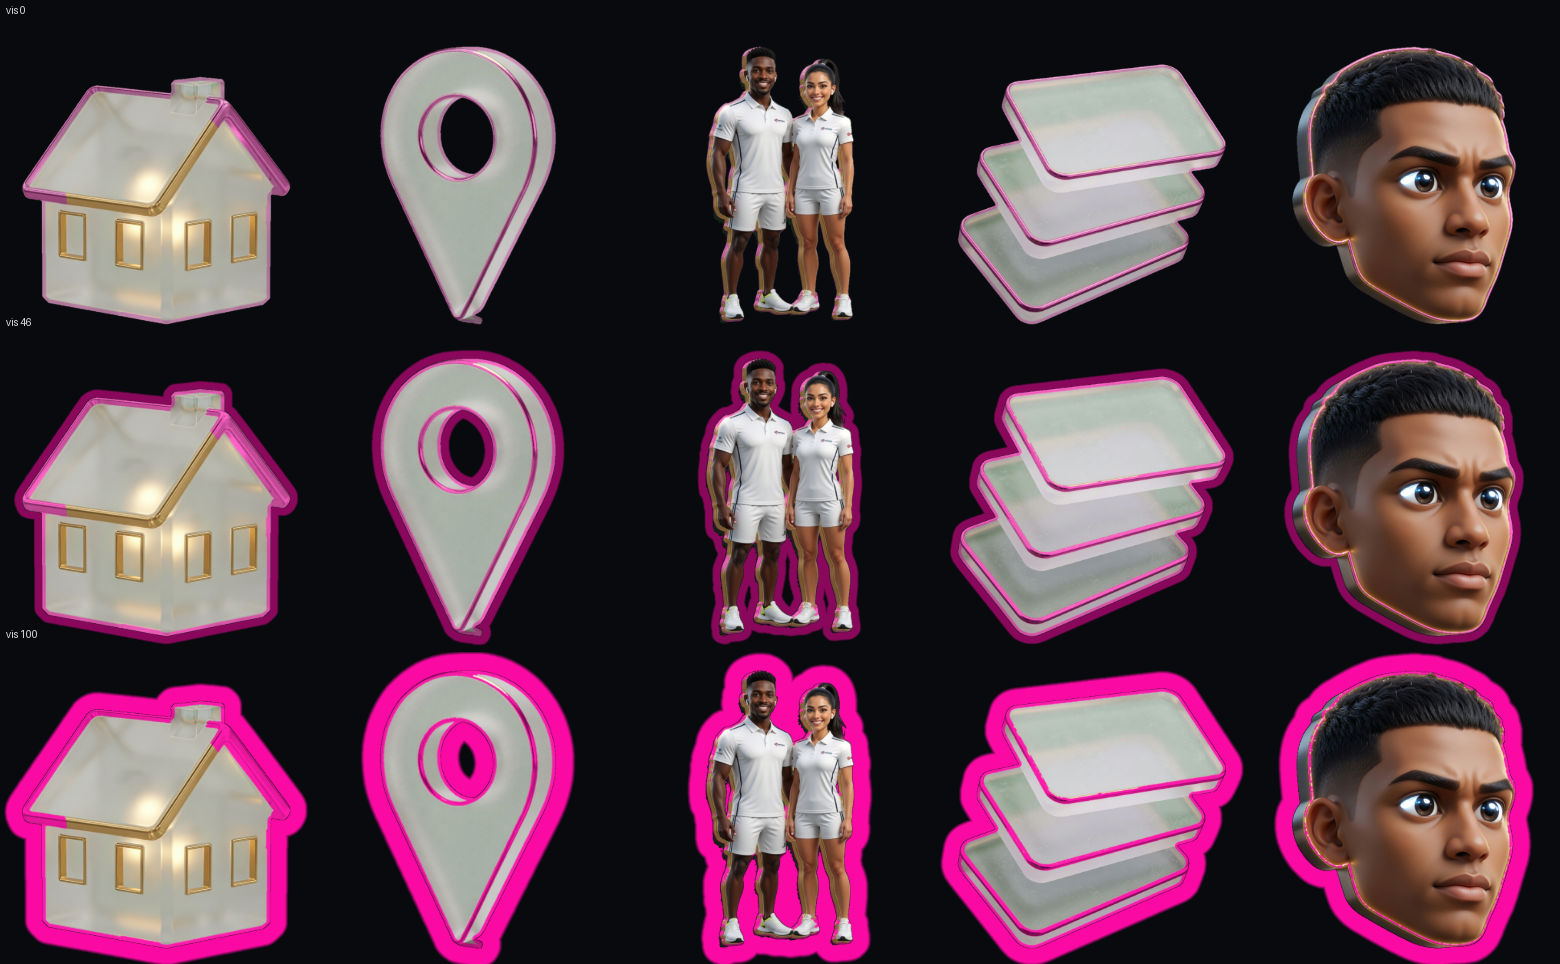
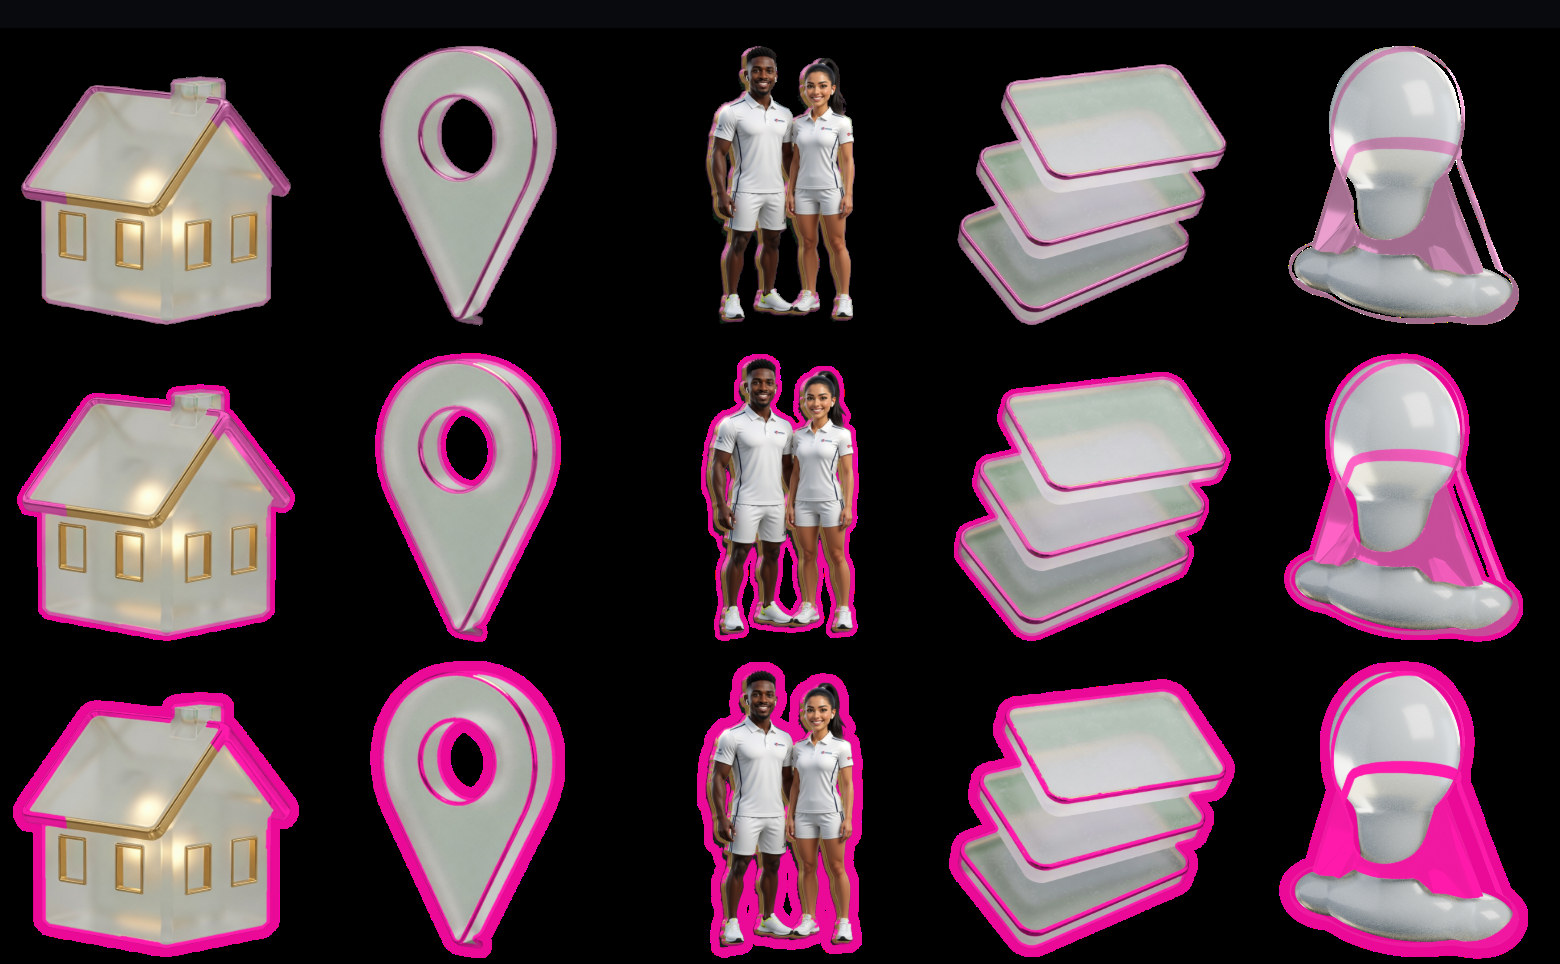
glyph: crisp outline, and a faceless profile bust
The outer stroke is a bright opaque line whose width is the only thing
visibility changes. The five profile icons are a modeled trophy bust
with no face, each pack's material, and a trim mask from the gold object.

diff --git a/prototype/glyph-preview/mocks.html b/prototype/glyph-preview/mocks.html
@@ -186,7 +186,7 @@
         const img = new Image();
         img.onload = () => { images.set(file, img); resolve(); };
         img.onerror = () => resolve();
-        img.src = file + "?v=15";
+        img.src = file + "?v=16";
       });
     }
     function boxBlur(src, w, h, radius) {
@@ -304,9 +304,9 @@
       const s = snap.data;
       const t = Math.max(0, Math.min(1, visibility / 100));
       const target = ((hueDeg % 360) + 360) % 360 / 360;
-      const reach = t * 5.5 * (w / 104);
-      const stroke = hsvToRgb(target, 0.96, 0.4 + 0.58 * t);
-      const feather = Math.max(1.1, reach * 0.22);
+      const reach = t * 3 * (w / 104);
+      const stroke = hsvToRgb(target, 0.96, 0.92);
+      const aa = 1;
       for (let n = 0; n < maskList.length; n++) {
         const i = maskList[n];
         const m = mask[i] / 255;
@@ -319,14 +319,14 @@
         d[p + 1] = s[q + 1] * (1 - m) + rgb[1] * m;
         d[p + 2] = s[q + 2] * (1 - m) + rgb[2] * m;
       }
-      if (reach > 0.3) {
-        const limit = reach + feather;
+      if (reach > 0.05) {
+        const limit = reach + aa;
         for (let n = 0; n < strokeList.length; n++) {
           const i = strokeList[n];
           const od = outside[i];
           if (od >= limit) continue;
-          const cover = od <= reach ? 1 : 1 - (od - reach) / feather;
-          const sa = cover * (0.62 + 0.38 * t);
+          const cover = od <= reach ? 1 : 1 - (od - reach) / aa;
+          const sa = cover;
           const p = i * 4;
           const da = d[p + 3] / 255;
           const outA = sa + da * (1 - sa);

diff --git a/docs/research/2026-09-24-contour/profile_bust.py b/docs/research/2026-09-24-contour/profile_bust.py
@@ -1,0 +1,270 @@
+"""Faceless profile bust for the five tab packs.
+
+Run:
+  blender --background --python docs/research/2026-09-24-contour/profile_bust.py
+
+One mesh (head, neck, shoulders). Gold trim is a separate object and is
+rendered again as the trim mask. Chalk has no gold; its mask is the
+same soft silhouette rim the other chalk icons use.
+"""
+import math
+import os
+import sys
+
+import bpy
+
+HERE = os.path.dirname(os.path.abspath(__file__))
+OUT = os.path.normpath(os.path.join(HERE, "..", "..", "..", "prototype", "glyph-preview"))
+PREVIEW = os.environ.get("PREVIEW", "") == "1"
+RES = 640 if PREVIEW else 1280
+
+PACKS = {
+    "f": dict(body=(0.012, 0.012, 0.013, 1), rough=0.55, metal=0.0, spec=0.35, gold=True, glow=0.0, trans=0.0),
+    "n": dict(body=(0.01, 0.01, 0.012, 1), rough=0.08, metal=0.15, spec=0.6, gold=True, glow=2.2, trans=0.0),
+    "k": dict(body=(0.93, 0.93, 0.92, 1), rough=0.28, metal=0.0, spec=0.45, gold=False, glow=0.0, trans=0.0),
+    "i": dict(body=(0.78, 0.88, 0.95, 1), rough=0.18, metal=0.0, spec=0.5, gold=True, glow=0.4, trans=0.82),
+    "r": dict(body=(0.96, 0.90, 0.78, 1), rough=0.22, metal=0.0, spec=0.5, gold=True, glow=0.15, trans=0.0),
+}
+
+
+def clear_scene():
+    bpy.ops.wm.read_factory_settings(use_empty=True)
+
+
+def look_at(obj, target):
+    direction = target - obj.location
+    obj.rotation_euler = direction.to_track_quat("-Z", "Y").to_euler()
+
+
+def build_bust():
+    mb = bpy.data.metaballs.new("BustBall")
+    # Convert uses the viewport resolution, so keep it fine enough for a smooth bust.
+    mb.resolution = 0.018
+    mb.render_resolution = 0.01
+    obj = bpy.data.objects.new("Bust", mb)
+    bpy.context.collection.objects.link(obj)
+
+    def ball(co, radius):
+        el = mb.elements.new()
+        el.type = "BALL"
+        el.co = co
+        el.radius = radius
+        return el
+
+    def egg(co, sx, sy, sz, radius):
+        el = mb.elements.new()
+        el.type = "ELLIPSOID"
+        el.co = co
+        el.radius = radius
+        el.size_x = sx
+        el.size_y = sy
+        el.size_z = sz
+        return el
+
+    # Slightly flattened sphere for the head. No face, hair, or features.
+    egg((0.0, -0.02, 1.62), 0.96, 0.82, 1.08, 0.92)
+    # Short neck, blended so it does not read as a separate ball.
+    ball((0.0, 0.02, 1.02), 0.42)
+    ball((0.0, 0.05, 0.78), 0.50)
+    # Rounded shoulders, wider than the head, like a trophy bust.
+    egg((0.0, 0.08, 0.38), 1.35, 0.72, 0.52, 0.95)
+    egg((-0.72, 0.04, 0.36), 0.62, 0.48, 0.42, 0.62)
+    egg((0.72, 0.04, 0.36), 0.62, 0.48, 0.42, 0.62)
+
+    bpy.context.view_layer.objects.active = obj
+    obj.select_set(True)
+    bpy.ops.object.convert(target="MESH")
+    mesh = bpy.context.active_object
+    mesh.name = "Bust"
+    bpy.ops.object.shade_smooth()
+    sub = mesh.modifiers.new("Sub", "SUBSURF")
+    sub.levels = 1
+    sub.render_levels = 2
+    return mesh
+
+
+def curve_band(name, location, scale, bevel, tilt=0.0):
+    bpy.ops.curve.primitive_bezier_circle_add(radius=1.0, location=location)
+    cu = bpy.context.active_object
+    cu.name = name
+    cu.scale = scale
+    cu.rotation_euler[0] = tilt
+    cu.data.bevel_depth = bevel
+    cu.data.bevel_resolution = 6
+    cu.data.resolution_u = 24
+    bpy.ops.object.convert(target="MESH")
+    band = bpy.context.active_object
+    bpy.ops.object.shade_smooth()
+    return band
+
+
+def hug_surface(band, target, offset):
+    wrap = band.modifiers.new("Hug", "SHRINKWRAP")
+    wrap.target = target
+    wrap.wrap_method = "NEAREST_SURFACEPOINT"
+    wrap.offset = offset
+    bpy.context.view_layer.objects.active = band
+    band.select_set(True)
+    bpy.ops.object.modifier_apply(modifier=wrap.name)
+
+
+def build_trim(bust):
+    # Own object: a band on the shoulder rim and one around the blank head.
+    # Thick enough to still read after the icon is drawn at 42 px.
+    shoulder = curve_band("TrimShoulder", (0.0, 0.1, 0.72), (1.22, 0.78, 1.0), 0.07, tilt=1.05)
+    head = curve_band("TrimHead", (0.0, -0.02, 1.55), (1.02, 0.88, 1.0), 0.055, tilt=1.2)
+    for band in (shoulder, head):
+        bpy.ops.object.select_all(action="DESELECT")
+        hug_surface(band, bust, 0.045)
+    bpy.ops.object.select_all(action="DESELECT")
+    shoulder.select_set(True)
+    head.select_set(True)
+    bpy.context.view_layer.objects.active = shoulder
+    bpy.ops.object.join()
+    trim = bpy.context.active_object
+    trim.name = "Trim"
+    return trim
+
+
+def principled(name, color, rough, metal, spec, emission=0.0, transmission=0.0, ao_mix=True):
+    mat = bpy.data.materials.new(name)
+    mat.use_nodes = True
+    nt = mat.node_tree
+    bsdf = nt.nodes.get("Principled BSDF")
+    bsdf.inputs["Base Color"].default_value = color
+    bsdf.inputs["Roughness"].default_value = rough
+    bsdf.inputs["Metallic"].default_value = metal
+    if "Specular IOR Level" in bsdf.inputs:
+        bsdf.inputs["Specular IOR Level"].default_value = spec
+    elif "Specular" in bsdf.inputs:
+        bsdf.inputs["Specular"].default_value = spec
+    if transmission > 0 and "Transmission Weight" in bsdf.inputs:
+        bsdf.inputs["Transmission Weight"].default_value = transmission
+        bsdf.inputs["IOR"].default_value = 1.45
+    if emission > 0 and "Emission Strength" in bsdf.inputs:
+        color_in = "Emission Color" if "Emission Color" in bsdf.inputs else "Emission"
+        bsdf.inputs[color_in].default_value = (1.0, 0.78, 0.32, 1)
+        bsdf.inputs["Emission Strength"].default_value = emission
+    if not ao_mix:
+        return mat
+    # Soft contact darkening in the neck and under the shoulder swell.
+    ao = nt.nodes.new("ShaderNodeAmbientOcclusion")
+    ao.inputs["Distance"].default_value = 0.35
+    mix = nt.nodes.new("ShaderNodeMixRGB")
+    mix.blend_type = "MULTIPLY"
+    mix.inputs["Fac"].default_value = 0.55
+    rgb = nt.nodes.new("ShaderNodeRGB")
+    rgb.outputs[0].default_value = color
+    nt.links.new(rgb.outputs["Color"], mix.inputs["Color1"])
+    nt.links.new(ao.outputs["Color"], mix.inputs["Color2"])
+    nt.links.new(mix.outputs["Color"], bsdf.inputs["Base Color"])
+    return mat
+
+
+def gold_material(glow):
+    return principled(
+        "Gold",
+        (1.0, 0.76, 0.32, 1),
+        rough=0.12,
+        metal=1.0,
+        spec=0.7,
+        emission=glow,
+        ao_mix=False,
+    )
+
+
+def assign(obj, mat):
+    obj.data.materials.clear()
+    obj.data.materials.append(mat)
+
+
+def scene_setup(cam_target):
+    scene = bpy.context.scene
+    scene.render.engine = "CYCLES"
+    scene.cycles.samples = 24 if PREVIEW else 96
+    scene.cycles.use_denoising = False
+    # Apt Blender is built without OpenImageDenoise. Leave denoising off.
+    scene.render.resolution_x = RES
+    scene.render.resolution_y = RES
+    scene.render.film_transparent = True
+    scene.render.image_settings.file_format = "PNG"
+    scene.render.image_settings.color_mode = "RGBA"
+    try:
+        scene.view_settings.view_transform = "AgX"
+    except TypeError:
+        pass
+
+    bpy.ops.object.camera_add(location=(2.55, -4.90, 2.28))
+    cam = bpy.context.active_object
+    look_at(cam, cam_target)
+    cam.data.lens = 85
+    scene.camera = cam
+
+    def area(loc, energy, size, color=(1, 1, 1)):
+        bpy.ops.object.light_add(type="AREA", location=loc)
+        L = bpy.context.active_object
+        L.data.energy = energy
+        L.data.size = size
+        L.data.color = color
+        look_at(L, cam_target)
+        return L
+
+    # Upper right key, soft, matching the other icons.
+    area((2.4, -1.2, 3.4), 900, 2.4, (1.0, 0.96, 0.9))
+    area((-2.2, -1.6, 1.6), 140, 3.0, (0.75, 0.82, 1.0))
+    area((0.2, 2.4, 2.2), 220, 1.6, (1.0, 0.9, 0.7))
+
+    world = bpy.data.worlds.new("Studio")
+    scene.world = world
+    world.use_nodes = True
+    bg = world.node_tree.nodes.get("Background")
+    bg.inputs["Color"].default_value = (0.04, 0.045, 0.05, 1)
+    bg.inputs["Strength"].default_value = 0.35
+
+
+def render_to(path):
+    bpy.context.scene.render.filepath = path
+    bpy.ops.render.render(write_still=True)
+
+
+def hide(obj, hidden):
+    obj.hide_render = hidden
+
+
+def main():
+    os.makedirs(OUT, exist_ok=True)
+    clear_scene()
+    bust = build_bust()
+    trim = build_trim(bust)
+    from mathutils import Vector
+    scene_setup(Vector((0.0, 0.0, 1.16)))
+
+    only = os.environ.get("PACK", "")
+    for art, spec in PACKS.items():
+        if only and art != only:
+            continue
+        body = principled("Body_" + art, spec["body"], spec["rough"], spec["metal"], spec["spec"], transmission=spec["trans"])
+        assign(bust, body)
+        hide(bust, False)
+        if spec["gold"]:
+            assign(trim, gold_material(spec["glow"]))
+            hide(trim, False)
+        else:
+            hide(trim, True)
+        beauty = os.path.join("/tmp" if PREVIEW else OUT, f"{art}-profile.png")
+        render_to(beauty)
+        print("wrote", beauty)
+        if PREVIEW:
+            continue
+        if spec["gold"]:
+            hide(bust, True)
+            assign(trim, principled("TrimWhite", (1, 1, 1, 1), 0.4, 0, 0.5, emission=2.0))
+            mask_path = os.path.join(OUT, f"{art}-profile-trim-rgba.png")
+            render_to(mask_path)
+            print("wrote", mask_path)
+            hide(bust, False)
+        # Chalk trim is built afterwards by the system Python chalk mask.
+
+
+if __name__ == "__main__":
+    main()

diff --git a/docs/research/2026-09-24-contour/REPORT.md b/docs/research/2026-09-24-contour/REPORT.md
@@ -6,7 +6,7 @@ The hue slider now recolours the whole outline light on all five packs. Visibili
 
 - `docs/research/2026-09-24-contour/build_trim.py` writes one 8-bit mask per icon: `prototype/glyph-preview/<art>-<job>-trim.png`.
 - `prototype/glyph-preview/mocks.html` recolours only those masked pixels, by shifting hue and keeping each pixel’s own saturation and value (lifted as visibility goes up). It no longer paints a fixed inward ring, and it no longer uses `isAccent()`.
-- Visibility adds a short outer stroke on the silhouette (zero at vis 0, about 5.5 reference pixels at vis 100) plus more saturation and brightness on the trim. The stroke does not grow inward.
+- Visibility adds a short outer stroke on the silhouette. Follow-up 3 replaced the old dark feather (about 5.5 reference pixels) with a bright opaque line, zero at vis 0 and about 3 CSS px at vis 100 on the 104px strip. The stroke does not grow inward.
 - Icons are fitted from their opaque bounds, bottom-aligned, so the old uneven padding no longer shifts them in the tab bar or the strip.
 
 ## How the mask is built
@@ -76,3 +76,15 @@ Per icon, what is still not clean:
 - Interior gold that is not the outline (window glow, warm wall colour, trophies inside the form) stays gold. It is not connected as trim, which is what keeps faces and windows clean.
 - At vis 0 the shadow side is a dark version of the hue. The loud, even line is the lit bevel plus the outer stroke, which is what visibility turns up.
 - Homes are a little shorter than the tall icons (pins, athletes) because they are wider. They share the same bottom edge and the same fit box; the art’s aspect ratio is unchanged.
+
+## Follow-up 3: crisp stroke, and a faceless bust
+
+The outer stroke is no longer a dark feathered band. In `renderSheet()` the width is `visibility/100 * 3 * (imageWidth/104)` source pixels, so at the 104px strip it is 0 at vis 0 and about 3 CSS px at vis 100. The colour is fixed at saturation 0.96 and value 0.92 (hue 218 is `(9, 92, 235)`). Coverage is fully opaque inside that width and falls off over 1 source pixel. There is no glow and no soft outer feather.
+
+Measured on the Fight night home strip at DPR 1: vis 46 is one solid CSS pixel of that blue, vis 100 stays inside about 3 CSS px of the vis-0 silhouette (median 2, max 3.2). The tab bar at 42px is about 1.4 CSS px at vis 100, which is the same stroke scaled with the icon. The icon edge at vis 0 jumps from the background in a single CSS pixel, and the page’s edge energy matches a Lanczos downscale of the source PNG (about 9.1 vs 9.0). DPR 1.25 shows the same canvases at 130px and 53px.
+
+The profile icon is a new mesh in all five packs. `profile_bust.py` builds one metaball bust (flattened head, short neck, rounded shoulders) and a separate gold trim (shoulder rim and a band around the head), lit from the upper right, and renders it with Cycles at 1280px on a transparent background. Fight night is matte black with polished gold, Neon is gloss black with a glowing gold edge, Ice is frosted glass with a gold edge, Bright is cream enamel with gold trim, and Chalk is white ceramic with no gold. The gold packs’ `-trim.png` is the trim object’s alpha from its own pass, with values under 0.15 stored as 0. Chalk uses the same soft silhouette rim as the other chalk icons. The other twenty icons are unchanged.
+
+`f-profile.png`, `n-profile.png`, `i-profile.png` and `r-profile.png` are no longer one shared file. On the Fight night bust, hue 43, 218 and 322 at vis 0 move the same trim pixels (about 7.7k on the 312 canvas) from gold to blue to magenta.
+
+Sheets in `after/` were rendered again for every pack at hues 43, 218 and 322 and vis 0, 46 and 100. `after/dpr1-<pack>.png` is the DPR 1 strip at hue 218 and vis 100, scaled 4× with nearest-neighbour.
